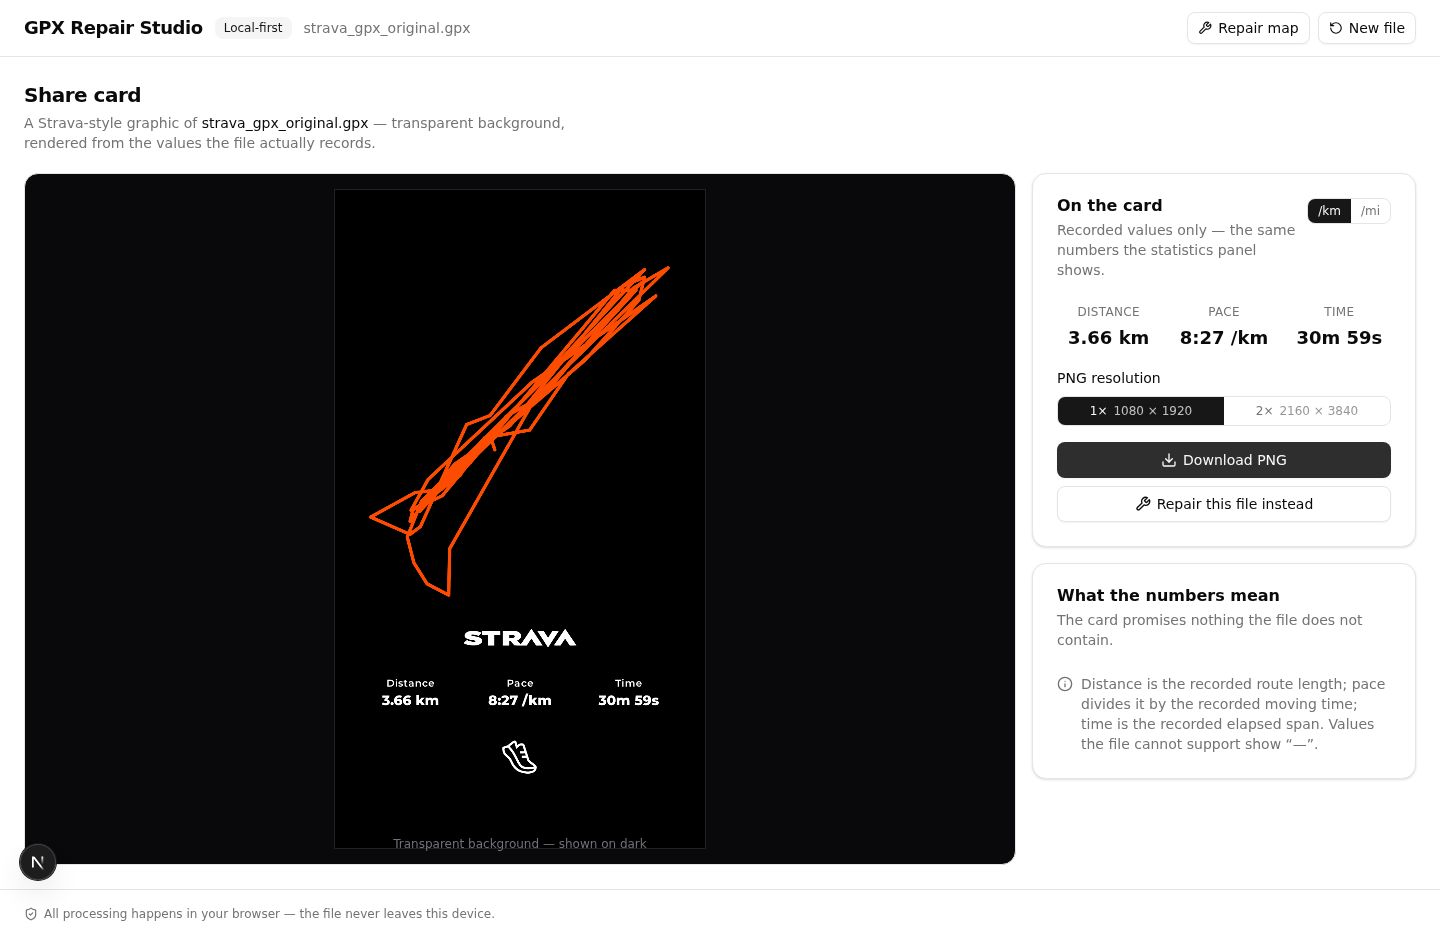
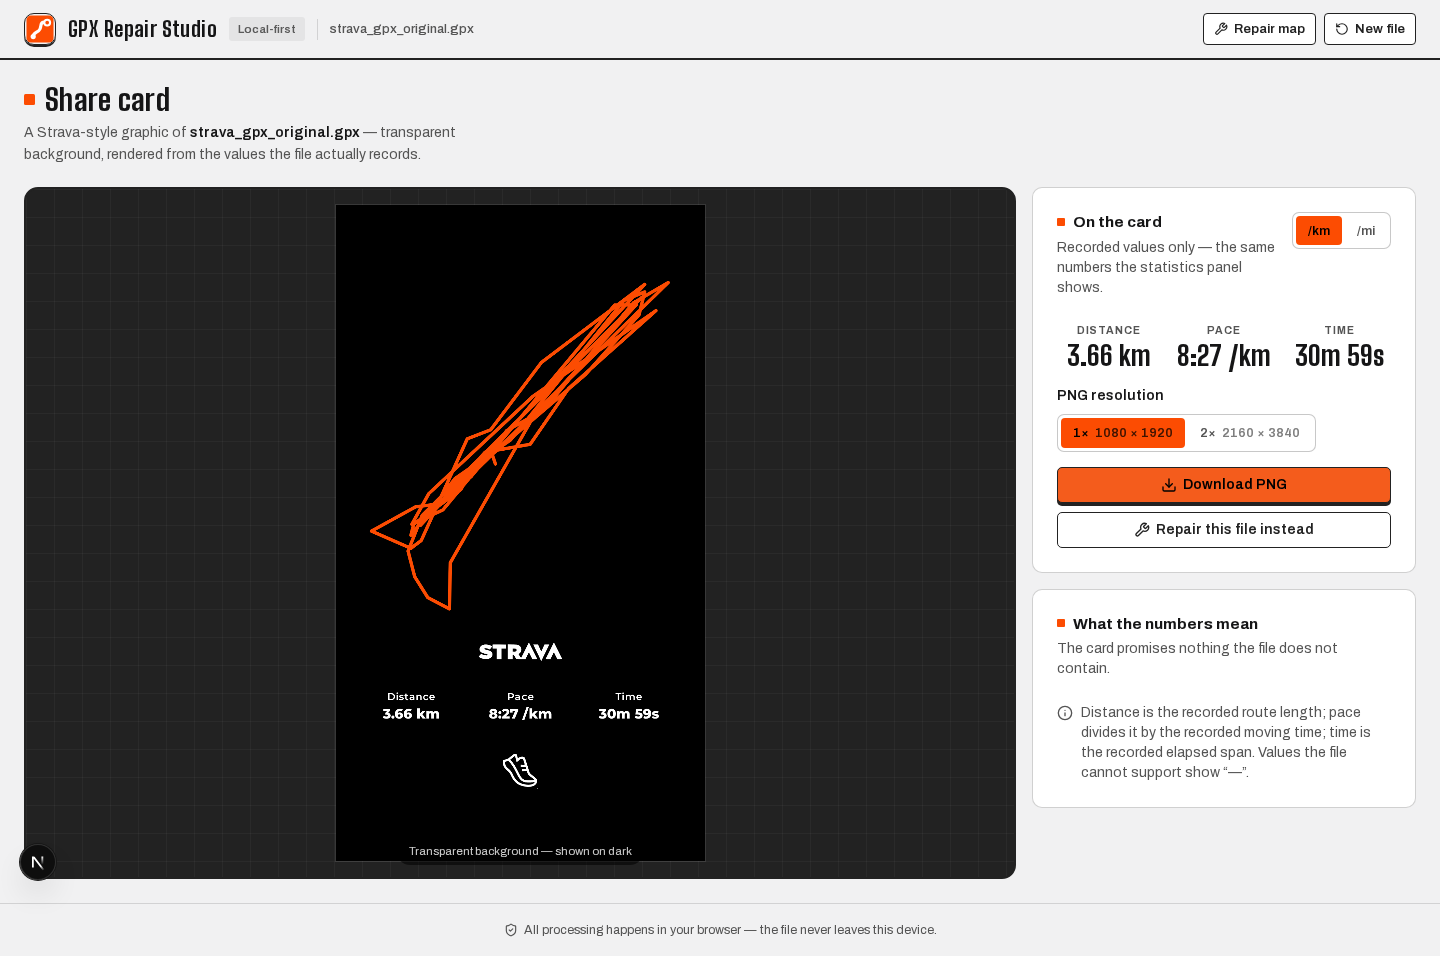
fix(share): render the STRAVA wordmark at its natural proportions (Task 40)
Task 23 mapped the wordmark's ink non-uniformly onto the measured
330x55 box (x 0.598 / y 0.444) to chase the reference card's flatter
mark — the letters rendered vertically squeezed. The user asked for
the SVG as it is: the ink is now CONTAINED in the box at a uniform
scale and centered, exactly like the shoe's slot. The height binds
(~245x55 at top 1280), so the card's measured vertical rhythm
(90/87 gaps) is preserved bit-for-bit. Only the Strava logo changed.

- layout.ts: contain+center logo mapping; SHARE_CARD_LOGO_INK_BOX
  renamed SHARE_CARD_LOGO_BOX (it is the containment box now)
- artwork.ts / render.ts: truthful comments (painter unchanged —
  the contained rect carries the viewBox aspect)
- share-layout tests: containment re-pin (uniform scale to 9dp,
  ink aspect = source aspect, centered, rhythm exact)
- verify-share-card-layout.mjs: live pixel probes re-pinned for the
  contained ink + a source-aspect probe (±0.5 for antialias
  clipping; unit tests pin the geometry exactly)
- MASTER_PLAN §O-4: Task 40 documented as the one later revision

936/936 unit, e2e 66/67 + the documented draw-editor sandbox flake
(7/7 isolated), typecheck + eslint clean. Live probes and 3 VLM
critiques (stroke-weight analysis: consistent weight = uniform
scaling) all PASS.

diff --git a/tests/share-layout.test.ts b/tests/share-layout.test.ts
@@ -1,15 +1,18 @@
 /**
- * Share card layout + artwork tests (Task 23 spec revision) —
- * lib/share/layout.ts, lib/share/artwork.ts, lib/share/path-bounds.ts.
+ * Share card layout + artwork tests (Task 23 spec revision; Task 40
+ * logo revision) — lib/share/layout.ts, lib/share/artwork.ts,
+ * lib/share/path-bounds.ts.
  *
  * Pins the reference card's measured anchors EXACTLY (the lesson of
  * Tasks 21–22: the reference's numbers are the spec — pin, don't
  * re-derive): the 1080×1920 canvas on solid black, the route's
  * visible box (x 64–1012, y 219–1190, contain + casing inset), the
- * wordmark's 330×55 ink box at top 1280, the stats trio (29px/40px,
- * 9px label→value, centers 220/540/857, top 1422), the 104px shoe
- * slot at top 1605 — and the vertical rhythm those anchors imply
- * (gaps 90 / 87 / ≈90, content ending at 1709 with ~211px empty).
+ * wordmark's 330×55 box at top 1280 (ink CONTAINED at the SVG's
+ * natural proportions since Task 40 — never stretched), the stats
+ * trio (29px/40px, 9px label→value, centers 220/540/857, top 1422),
+ * the 104px shoe slot at top 1605 — and the vertical rhythm those
+ * anchors imply (gaps 90 / 87 / ≈90, content ending at 1709 with
+ * ~211px empty).
  *
  * The artwork's ink constants are verified against the path data by
  * the same parser used to measure them (artwork.ts carries data; the
@@ -31,7 +34,7 @@ import {
   SHARE_CARD_COLORS,
   SHARE_CARD_HEIGHT,
   SHARE_CARD_ICON_SLOT,
-  SHARE_CARD_LOGO_INK_BOX,
+  SHARE_CARD_LOGO_BOX,
   SHARE_CARD_ROUTE_BOX,
   SHARE_CARD_ROUTE_STROKE,
   SHARE_CARD_SIMPLIFY_TOLERANCE_M,
@@ -62,17 +65,17 @@ describe("share card spec tokens (Task 23)", () => {
     });
   });
 
-  it("anchors the wordmark's ink box at 330×55, top 1280, centered", () => {
-    expect(SHARE_CARD_LOGO_INK_BOX).toEqual({
+  it("anchors the wordmark's box at 330×55, top 1280, centered", () => {
+    expect(SHARE_CARD_LOGO_BOX).toEqual({
       x: 375,
       y: 1280,
       width: 330,
       height: 55,
     });
     // Centered on the card's midline.
-    expect(
-      SHARE_CARD_LOGO_INK_BOX.x + SHARE_CARD_LOGO_INK_BOX.width / 2,
-    ).toBe(SHARE_CARD_WIDTH / 2);
+    expect(SHARE_CARD_LOGO_BOX.x + SHARE_CARD_LOGO_BOX.width / 2).toBe(
+      SHARE_CARD_WIDTH / 2,
+    );
   });
 
   it("anchors the stats trio: top 1422, centers 220/540/857, 9px gap", () => {
@@ -144,23 +147,31 @@ describe("computeShareCardLayout", () => {
     });
   });
 
-  it("maps the wordmark's ink exactly onto its 330×55 box (the stretch)", () => {
-    expect(LAYOUT.logoInkRect).toEqual({ ...SHARE_CARD_LOGO_INK_BOX });
-    // The painter rect is the affine scaffolding that places the ink:
-    // ink-in-viewBox maps onto the box on both axes, independently.
+  it("contains the wordmark's ink in its 330×55 box, centered (no stretch)", () => {
+    const ink = LAYOUT.logoInkRect;
+    const box = SHARE_CARD_LOGO_BOX;
+    // Contained: neither dimension exceeds the box.
+    expect(ink.width).toBeLessThanOrEqual(box.width + 1e-9);
+    expect(ink.height).toBeLessThanOrEqual(box.height + 1e-9);
+    // The binding dimension fills the box: the trace's ink is
+    // relatively TALLER than the box (4.45:1 vs 6:1), so height
+    // binds — the ink keeps every bit of the box's 55px height and
+    // gives up width instead (~245 wide).
+    expect(ink.height).toBeCloseTo(55, 6);
+    expect(ink.width).toBeCloseTo(55 * (551.8 / 123.9), 6);
+    // Centered on the box's center (540, 1307.5).
+    expect(ink.x + ink.width / 2).toBeCloseTo(540, 10);
+    expect(ink.y + ink.height / 2).toBeCloseTo(1280 + 27.5, 10);
+    // The painter rect places the ink there (affine scaffolding).
     const metrics = STRAVA_LOGO_METRICS;
-    const scaleX = LAYOUT.logoRect.width / metrics.viewBoxWidth;
-    const scaleY = LAYOUT.logoRect.height / metrics.viewBoxHeight;
-    expect(LAYOUT.logoRect.x + metrics.ink.x * scaleX).toBeCloseTo(375, 10);
-    expect(LAYOUT.logoRect.y + metrics.ink.y * scaleY).toBeCloseTo(1280, 10);
-    expect(LAYOUT.logoRect.x + (metrics.ink.x + metrics.ink.width) * scaleX)
-      .toBeCloseTo(375 + 330, 10);
-    expect(LAYOUT.logoRect.y + (metrics.ink.y + metrics.ink.height) * scaleY)
-      .toBeCloseTo(1280 + 55, 10);
-    // The stretch is real but honest: x and y scales differ (the
-    // reference wordmark is flatter than the trace).
-    expect(scaleX).toBeCloseTo(330 / 551.8, 6);
-    expect(scaleY).toBeCloseTo(55 / 123.9, 6);
+    const scale = LAYOUT.logoRect.width / metrics.viewBoxWidth;
+    expect(LAYOUT.logoRect.x + metrics.ink.x * scale).toBeCloseTo(ink.x, 6);
+    expect(LAYOUT.logoRect.y + metrics.ink.y * scale).toBeCloseTo(ink.y, 6);
+    // UNIFORM scale — the wordmark is never squeezed (Task 40: the
+    // SVG stands as it is; the Task-23 squash is gone).
+    expect(LAYOUT.logoRect.height / metrics.viewBoxHeight).toBeCloseTo(scale, 9);
+    // And the ink keeps the source SVG's natural proportions.
+    expect(ink.width / ink.height).toBeCloseTo(551.8 / 123.9, 6);
   });
 
   it("lays the stats row at the anchors with the 9px label→value gap", () => {
@@ -225,21 +236,19 @@ describe("computeShareCardLayout", () => {
   });
 
   it("derives the layout from passed metrics (artwork-agnostic)", () => {
-    // Synthetic square ink filling its viewBox: the logo ink box IS
-    // the rect; the icon ink fills the slot exactly.
+    // Synthetic square ink filling its viewBox: the logo ink is
+    // CONTAINED in the 330×55 box (55×55, centered) and the icon ink
+    // fills the slot exactly.
     const square = {
       viewBoxWidth: 100,
       viewBoxHeight: 100,
       ink: { x: 0, y: 0, width: 100, height: 100 },
     };
     const layout = computeShareCardLayout({ logo: square, icon: square });
-    expect(layout.logoRect.x).toBeCloseTo(SHARE_CARD_LOGO_INK_BOX.x, 10);
-    expect(layout.logoRect.y).toBeCloseTo(SHARE_CARD_LOGO_INK_BOX.y, 10);
-    expect(layout.logoRect.width).toBeCloseTo(SHARE_CARD_LOGO_INK_BOX.width, 10);
-    expect(layout.logoRect.height).toBeCloseTo(
-      SHARE_CARD_LOGO_INK_BOX.height,
-      10,
-    );
+    expect(layout.logoRect.x).toBeCloseTo(375 + (330 - 55) / 2, 10);
+    expect(layout.logoRect.y).toBeCloseTo(SHARE_CARD_LOGO_BOX.y, 10);
+    expect(layout.logoRect.width).toBeCloseTo(55, 10);
+    expect(layout.logoRect.height).toBeCloseTo(SHARE_CARD_LOGO_BOX.height, 10);
     expect(layout.iconInkRect.x).toBeCloseTo(488, 10);
     expect(layout.iconInkRect.y).toBeCloseTo(1605, 10);
     expect(layout.iconInkRect.width).toBeCloseTo(104, 10);

diff --git a/src/lib/share/layout.ts b/src/lib/share/layout.ts
@@ -13,7 +13,8 @@
  *   │ │ x 64–1012, y 219–1190                 │ │   948×971
  *   │ └───────────────────────────────────────┘ │
  *   ├────────────── 90px ───────────────────────┤ ← 1190
- *   │           STRAVA ink 330×55               │ ← top 1280
+ *   │      STRAVA ink ~245×55 (contained        │ ← top 1280
+ *   │      in the 330×55 box, centered)         │
  *   ├────────────── 87px ───────────────────────┤ ← 1335
  *   │   Distance      Pace        Time          │ ← 1422–1515.25
  *   ├───────────── ≈90px (89.75) ───────────────┤
@@ -31,11 +32,15 @@
  *     aspect preserved, centered); the geometry is projected into the
  *     box inset by half the casing (8px) so the painted ink cannot
  *     cross it;
- *   - STRAVA wordmark: ink 330 wide × 55 tall, top 1280, centered
- *     (x 375–705). The traced artwork's ink is ~4.45:1 while the
- *     reference's wordmark is ~6:1, so the ink is mapped
- *     NON-UNIFORMLY onto the box — a deliberate squash that also
- *     moves the trace toward the real mark's flatness;
+ *   - STRAVA wordmark: the 330×55 box, top 1280, centered (x 375–705)
+ *     is the CONTAINMENT box: the ink is mapped at a UNIFORM scale
+ *     (the binding dimension wins) and centered in it, so the SVG's
+ *     own proportions stand — ~245×55 for the current trace. Task 23
+ *     stretched the ink non-uniformly onto the box to chase the
+ *     reference's flatter mark; Task 40 removed that squash at the
+ *     user's request ("keep the svg as it is"). The box's height is
+ *     exactly the ink's height, so the vertical rhythm below is
+ *     unchanged;
  *   - stats: label 29px SemiBold over value 40px ExtraBold, 9px
  *     between the lines, row top 1422, column centers pinned at
  *     x 220 / 540 / 857 (text centered per column);
@@ -69,11 +74,14 @@ export const SHARE_CARD_ROUTE_BOX = {
 } as const;
 
 /**
- * The STRAVA wordmark's ink box: 330 wide, 55 tall, top edge at 1280,
- * horizontally centered (x 375–705, centerX 540) — exactly as
- * measured on the reference card.
+ * The STRAVA wordmark's containment box: 330 wide, 55 tall, top edge
+ * at 1280, horizontally centered (x 375–705, centerX 540) — exactly
+ * as measured on the reference card. The ink is CONTAINED in this
+ * box at a uniform scale (Task 40: the SVG's proportions stand, no
+ * stretch), which for the current trace lands the ink at ~245×55 —
+ * the height binds, so the box's height IS the ink's height.
  */
-export const SHARE_CARD_LOGO_INK_BOX = {
+export const SHARE_CARD_LOGO_BOX = {
   x: 375,
   y: 1280,
   width: 330,
@@ -183,14 +191,14 @@ export interface ShareCardLayout {
     height: number;
   };
   /**
-   * The wordmark's painter rect — the artwork's viewBox mapped so its
-   * INK lands exactly on the spec's 330×55 box (x and y scales are
-   * independent by design: the reference wordmark is flatter than
-   * the trace). The rect itself is invisible scaffolding; only the
-   * ink it places is drawn.
+   * The wordmark's painter rect — the artwork's viewBox mapped at a
+   * UNIFORM scale so its INK is contained in the spec's 330×55 box
+   * and centered in it (aspect preserved — the SVG is never
+   * squeezed; Task 40). The rect itself is invisible scaffolding;
+   * only the ink it places is drawn.
    */
   logoRect: { x: number; y: number; width: number; height: number };
-  /** The spec's logo ink box (where the wordmark's ink lands). */
+  /** Where the wordmark's ink actually lands (contained in the box). */
   logoInkRect: { x: number; y: number; width: number; height: number };
   /** The three stats columns, in label order. */
   statsColumns: readonly StatsColumnLayout[];
@@ -237,19 +245,30 @@ export function computeShareCardLayout(options: {
     height: routeBox.height - 2 * inset,
   };
 
-  // --- Logo: the ink is STRETCHED onto the spec's box (independent
-  // x/y scales). The viewBox rect that achieves this is the box
-  // expanded by the ink's offset from the viewBox origin, scaled per
-  // axis — pure affine bookkeeping; the rect is never seen, only the
-  // ink it places.
-  const logoInkRect = { ...SHARE_CARD_LOGO_INK_BOX };
-  const logoScaleX = logoInkRect.width / logo.ink.width;
-  const logoScaleY = logoInkRect.height / logo.ink.height;
+  // --- Logo: the ink is CONTAINED in the spec's box (uniform scale,
+  // the binding dimension wins) and centered in it — the same
+  // contract as the shoe's slot. The viewBox rect that achieves
+  // this is the box expanded by the ink's offset from the viewBox
+  // origin at that one scale — pure affine bookkeeping; the rect is
+  // never seen, only the ink it places.
+  const logoBox = SHARE_CARD_LOGO_BOX;
+  const logoScale = Math.min(
+    logoBox.width / logo.ink.width,
+    logoBox.height / logo.ink.height,
+  );
+  const logoInkWidth = logo.ink.width * logoScale;
+  const logoInkHeight = logo.ink.height * logoScale;
+  const logoInkRect = {
+    x: logoBox.x + (logoBox.width - logoInkWidth) / 2,
+    y: logoBox.y + (logoBox.height - logoInkHeight) / 2,
+    width: logoInkWidth,
+    height: logoInkHeight,
+  };
   const logoRect = {
-    x: logoInkRect.x - logo.ink.x * logoScaleX,
-    y: logoInkRect.y - logo.ink.y * logoScaleY,
-    width: logo.viewBoxWidth * logoScaleX,
-    height: logo.viewBoxHeight * logoScaleY,
+    x: logoInkRect.x - logo.ink.x * logoScale,
+    y: logoInkRect.y - logo.ink.y * logoScale,
+    width: logo.viewBoxWidth * logoScale,
+    height: logo.viewBoxHeight * logoScale,
   };
 
   // --- Stats: the anchor's top, the pinned column centers, label

diff --git a/src/lib/share/render.ts b/src/lib/share/render.ts
@@ -6,12 +6,13 @@
  * Draws the complete 1080×1920 Strava-style share card into a 2D canvas
  * context: the solid #000000 background, the route polyline (contained
  * in the visible box with a two-pass casing — 16px #000000 under 10px
- * #FC4C02, both round cap/join), the STRAVA wordmark (ink stretched
- * onto its 330×55 box), the Distance/Pace/Time stats trio, and the
- * shoe icon (ink contained in its 104px slot) — every position from
- * lib/share/layout.ts, every path from lib/share/artwork.ts, the
- * projection from lib/geo/mercator.ts, the decimation from
- * lib/geo/simplify.ts. This module executes; it decides nothing.
+ * #FC4C02, both round cap/join), the STRAVA wordmark (ink contained,
+ * aspect preserved, in its 330×55 box), the Distance/Pace/Time stats
+ * trio, and the shoe icon (ink contained in its 104px slot) — every
+ * position from lib/share/layout.ts, every path from
+ * lib/share/artwork.ts, the projection from lib/geo/mercator.ts, the
+ * decimation from lib/geo/simplify.ts. This module executes; it
+ * decides nothing.
  *
  * One painter serves both consumers (the same "what you see is what
  * you download" contract as the GPX export): the preview canvas at
@@ -235,7 +236,7 @@ export function renderShareCard(
     );
   }
 
-  // --- STRAVA wordmark (ink on its 330×55 box, white). ---
+  // --- STRAVA wordmark (ink contained in its 330×55 box, white). ---
   // The white fillStyle is set BEFORE any foreground artwork: the
   // wordmark, stats, and icon all draw in white; only the route (set
   // above, per-piece) differs. (A VLM review caught the logo rendering

diff --git a/src/lib/share/artwork.ts b/src/lib/share/artwork.ts
@@ -33,7 +33,9 @@ export interface VectorArtwork {
 /**
  * The STRAVA wordmark. Source SVG: 600×164 viewbox, wordmark paths
  * (S-T-R-A-V-A with the chevron A/V ligature), rendered white with
- * its ink stretched onto the card's 330×55 logo box (Task 23).
+ * its ink CONTAINED (uniform scale, aspect preserved) in the card's
+ * 330×55 logo box — ~245×55 (Task 23 stretched it; Task 40 removed
+ * the stretch at the user's request: the SVG stands as it is).
  */
 export const STRAVA_LOGO_ARTWORK: VectorArtwork = {
   viewBoxWidth: 600,
@@ -70,8 +72,9 @@ export function artworkAspectRatio(artwork: VectorArtwork): number {
 /**
  * The STRAVA wordmark's ink bounds in viewBox units — the paths span
  * x 24.2–576.0, y 19.1–143.0 of the 600×164 viewBox (the trace is
- * ~4.45:1; the reference card's wordmark is flatter, ~6:1 — the
- * layout stretches the ink onto its 330×55 box, see Task 23).
+ * ~4.45:1). The layout CONTAINS the ink in its 330×55 box at this
+ * natural aspect (~245×55, height binding — Task 40: never
+ * stretched).
  * Measured with lib/share/path-bounds.ts; tests re-derive and pin
  * these so an artwork edit can't silently drift.
  */

diff --git a/worklog.md b/worklog.md
@@ -938,3 +938,24 @@ Stage Summary:
 - The header Share button (create only): warn → export the GPX → share card view (same painter as the repair card), with a one-click way back to the review.
 - Test contract: 934 unit + 67 e2e, all green; the three existing workflows untouched.
 - Remaining phases unchanged: 8 (mobile & a11y), 9 (performance/large files), 10 (gated), 11 (polish/docs/release).
+---
+Task ID: 40
+Agent: Super Z (main agent)
+Task: User pass 40 — the STRAVA wordmark on the share card was squeezed; render the SVG as it is (uniform scale, natural proportions). Scope: the Strava logo ONLY (route, stats, and shoe untouched).
+
+Work Log:
+- Root cause: Task 23 had mapped the wordmark's ink NON-UNIFORMLY onto the measured 330×55 box (x scale 0.598, y 0.444 — the trace's ink is ~4.45:1 while the reference card's wordmark is ~6:1, and the squash chased the reference's flatness). The letters rendered vertically flattened — the squeeze the user saw. The worklog's Task 23 entry had pre-identified the fix as a one-token revert ("unsquashed 245×55").
+- layout.ts: the logo block now CONTAINS the ink in the box at a UNIFORM scale (min of the two axis scales, the binding dimension wins) and centers it — the same contract as the shoe's slot. For the current trace the height binds: ink ≈ 244.95×55 at top 1280, centered — so the card's measured vertical rhythm (route→logo 90px, logo→stats 87px) is preserved EXACTLY. SHARE_CARD_LOGO_INK_BOX renamed SHARE_CARD_LOGO_BOX (the ink no longer fills it — it is the containment box); header ASCII art, anchor bullets, and the logoRect/logoInkRect interface docs updated to tell the new truth.
+- artwork.ts + render.ts: comments rewritten (the painter needed no code change — it is rect-driven, and the contained rect carries the viewBox's aspect, making fillArtwork's per-axis scales equal).
+- tests/share-layout.test.ts: the stretch test replaced by a containment test mirroring the shoe's (contained ≤ box; height binds = 55; width 55×551.8/123.9; centered on (540, 1307.5); UNIFORM scale pinned to 9 decimals; ink aspect = source aspect pinned to 6 decimals); the artwork-agnostic square test re-derived (square ink → 55×55 centered in the 330×55 box); token test re-pinned for the renamed constant; the rhythm test unchanged and still passing (height binding keeps 1280/1335 exact).
+- scripts/verify-share-card-layout.mjs: live pixel probes re-pinned — logo bbox ~245×55 at y 1280, centered, plus a new source-aspect probe. First run caught the probe's own tolerance: the white-threshold bbox clips 1–2 antialiased rows (reads 244×53 → aspect 4.604), so the aspect tolerance is ±0.5 (still separates contained ~4.45 from stretched ~6.2; the geometric aspect is pinned exactly by unit tests).
+- docs/MASTER_PLAN.md §O-4: Task 40 documented as the one later revision — every artwork now CONTAINED (uniform) and centered; Task 23's stretch recorded as history with the user's rationale.
+- Validation: 936/936 unit, typecheck clean, eslint clean, live layout verification ALL CHECKS PASSED (preview + 1× export: logo band 5976 white px, bbox 244×53 at y 1281, center x 539.5, 90/87 gaps intact, zero page errors implied by clean probes).
+- Live QA (real GloryFit file, dev server): VLM critique 1 (before/after, labeled) — observation correct (after = narrower/taller glyphs) but its "brand flatness" preference favored the old squeeze; the user's explicit instruction overrides. VLM critique 2 (neutral framing, stroke-weight cues): the NEW render has consistent stroke weight in all directions (uniform scaling); the OLD render shows the classic anisotropic squeeze — horizontal strokes fatter than vertical stems, oval-squashed bowls, splayed V legs. VLM critique 3 (full card): wordmark clean/centered/no clipping, gaps balanced, no overlaps, coherent shareable card — 4/4 PASS. QA artifacts: download/task40-logo-after.png, download/task40-logo-before-simulated.png (the old squeeze synthesized exactly, = new × 1.347 horizontal), scripts/qa/task40-critique-1..3.json, scripts/task40-logo-critique-prep.mjs.
+- E2E: 66/67 + the documented draw-editor sandbox memory flake — 7/7 in isolation (4th consecutive task; unmodified code flakes 3/10 per Task 37's investigation).
+
+Stage Summary:
+- The share card's STRAVA wordmark now renders at the source SVG's own proportions — uniform scale, contained and centered in the measured 330×55 box (~245×55), vertical rhythm bit-identical to the reference anchors.
+- Only the Strava logo changed, exactly as requested; route, stats trio, and shoe icon untouched.
+- Test contract: 936 unit + 67 e2e, all green (one documented flake); the one-token revert Task 23 predicted is now the pinned, documented spec.
+- Remaining phases unchanged: 8 (mobile & a11y), 9 (performance/large files), 10 (gated), 11 (polish/docs/release).

diff --git a/docs/MASTER_PLAN.md b/docs/MASTER_PLAN.md
@@ -890,14 +890,16 @@ time). Pinned by `tests/stats-panel-reimport.test.tsx`.
 
 The card's geometry was revised three times against the user's
 reference card; **Task 23 is the operative spec** (Tasks 21–22 are
-historical):
+historical), with one later revision: **Task 40 un-squashes the
+STRAVA wordmark** (the user's call — the SVG keeps its own
+proportions).
 
 - **Anchor-based, not derived.** Every position is a measured
   constant from the reference, pinned exactly (the lesson of the
   earlier revisions: pin the reference's numbers, don't re-derive
   them): route visible box x 64–1012 / y 219–1190 (contain, geometry
   inset by the casing half-width so the stroked ink cannot cross it);
-  wordmark ink 330×55 at top 1280, centered; stats top 1422, column
+  wordmark box 330×55 at top 1280, centered; stats top 1422, column
   centers 220 / 540 / 857, label 29px SemiBold over value 40px
   ExtraBold with a 9px gap; shoe slot 104×104 at top 1605; solid
   #000000 background (fully opaque export). The implied rhythm —
@@ -905,11 +907,15 @@ historical):
   asserted by tests rather than used as an input.
 - **Ink-based artwork placement.** The layout consumes each artwork's
   viewBox AND its measured ink bounds (`path-bounds.ts` verifies the
-  constants in artwork.ts against the path data). The wordmark's ink
-  is deliberately mapped non-uniformly onto its 330×55 box — the
-  trace is ~4.45:1 while the reference's wordmark is ~6:1, so the
-  squash moves the trace toward the real mark's flatness; the shoe's
-  ink is contained (uniform) and centered in its slot.
+  constants in artwork.ts against the path data). Every artwork is
+  CONTAINED (uniform scale, aspect preserved) and centered in its
+  box — the shoe in its 104px slot, and since Task 40 the wordmark
+  in its 330×55 box (~245×55, height binding). Task 23 had stretched
+  the wordmark non-uniformly onto the box (the trace is ~4.45:1
+  while the reference's wordmark is ~6:1) to chase the real mark's
+  flatness; the user rejected the squeeze — the SVG stands as it
+  is, and the height binding keeps the measured vertical rhythm
+  (90/87 gaps) exact.
 - **Casing on black.** The 16px #000000 casing pass stays under the
   10px #FC4C02 route (spec-mandated) but is invisible against the
   black background; pixel-level casing assertions were retired with
